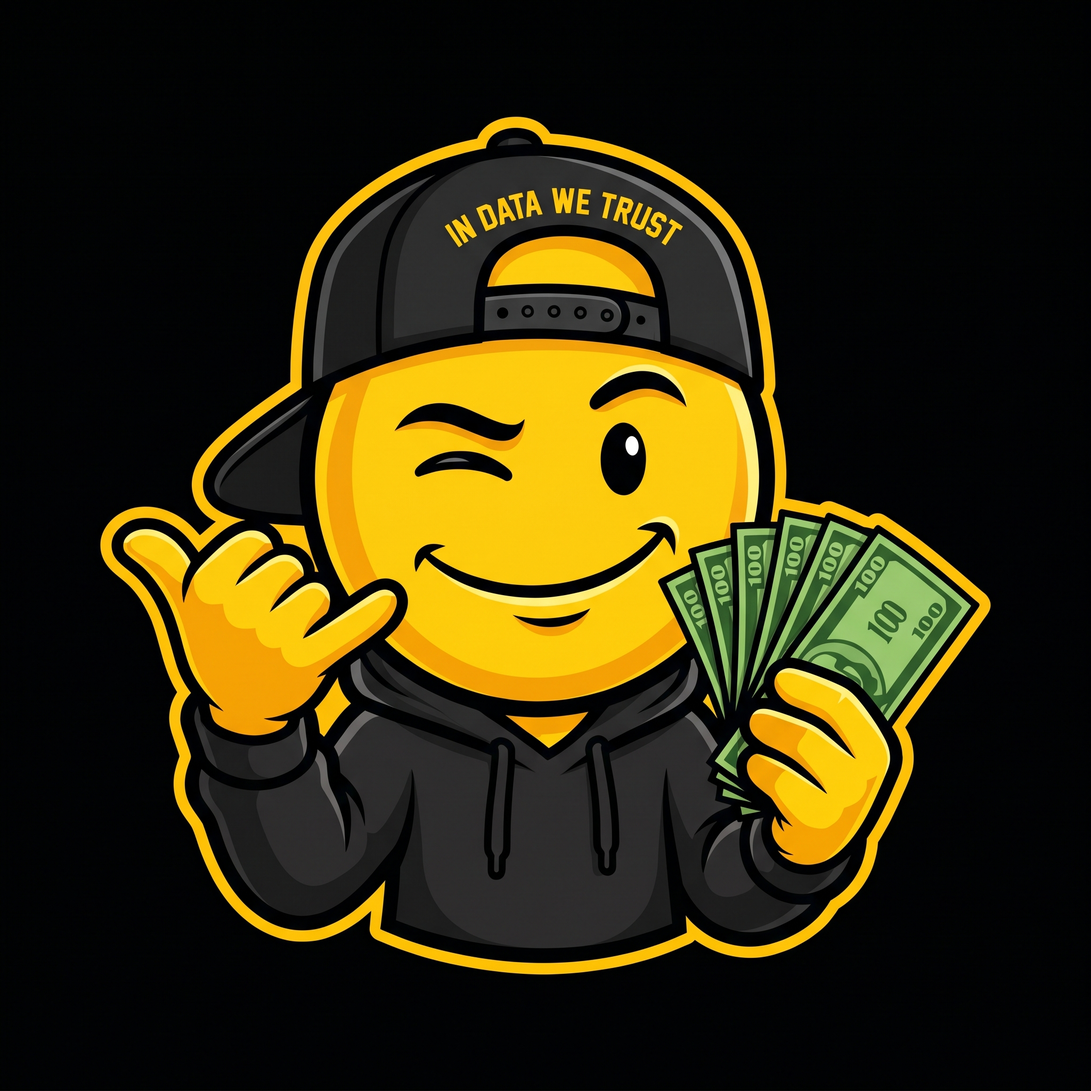
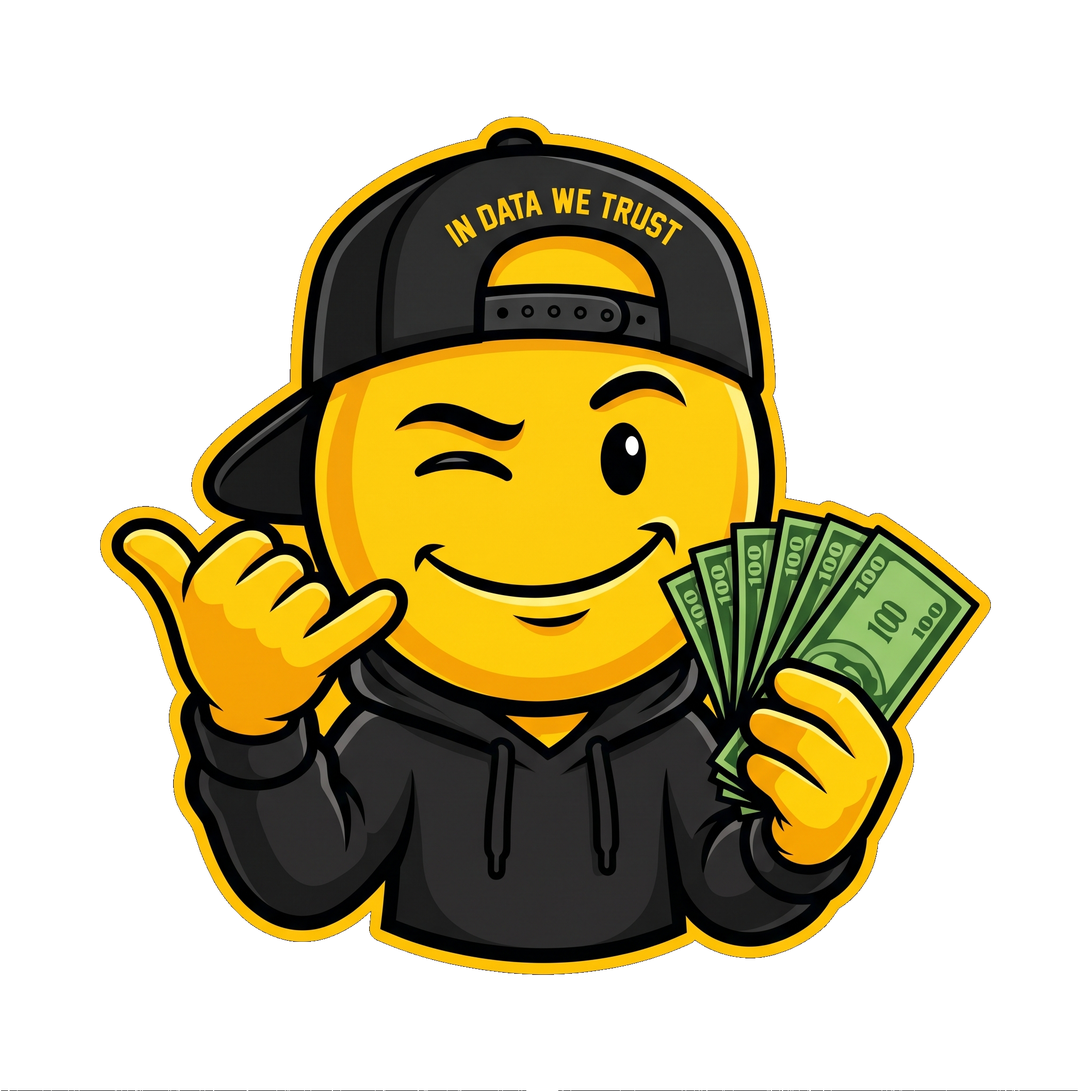
Sticker the mascot, unify the hero font, kill homepage stat repetition
What changed:
- The mascot finally looks like a sticker. The PNG had a baked-in black
  background that was rendering as a hard rectangle on top of the dark
  hero gradient; flood-filled the corner-connected black pixels to
  transparent so the sticker now floats with just its yellow outline.
  Internal blacks (hat, hoodie, line art) are preserved.
- Hero headline reads with one voice. Dropped BrushText (Permanent
  Marker / Bowlby) for "BRO" — mixing it with the italic Anton "TRUST"
  in the same brand phrase looked like three competing fonts. Now all
  three words are Anton italic; "TRUST ME" white, "BRO." gold.
- Stopped showing WIN RATE / SCORE / STREAK three times above the fold.
  The marquee was mirroring the hero stat panel which was mirroring
  the StatStrip band right below it. Removed StatStrip from the
  homepage (the /score page still has the long-form ledger), and
  rebuilt the marquee as an activity feed (latest BotD + outcome,
  tonight's pending count, tracking-since date, +1.0/-0.5 ledger
  reminder, "real bookmaker odds" line, sport scope).
- Mascot column also dialled down: max width 22→28rem instead of full
  column, conic backdrop opacity halved, drop-shadow softened, side
  glow shrunk. The sticker stops fighting the headline for attention.

What this means visually:
- Hero now reads top-down as one composition: eyebrow → headline →
  one-line subtitle → CTAs → stat panel → mascot floats alongside.
[…]

diff --git a/src/components/site/Hero.tsx b/src/components/site/Hero.tsx
@@ -9,7 +9,6 @@ import {
   type MotionValue,
 } from "motion/react";
 import { BarChart3, Clock, Flame, TrendingUp, Trophy } from "lucide-react";
-import { BrushText } from "@/components/site/BrushText";
 import { CountUp } from "@/components/site/CountUp";
 import { GoldButton } from "@/components/site/GoldButton";
 import { MagneticLink } from "@/components/site/MagneticLink";
@@ -77,14 +76,10 @@ function buildStatTiles(stats: EngineStats): StatTile[] {
         : "";
   const streakNote =
     stats.current_streak.kind === "win"
-      ? stats.current_streak.length === 1
-        ? "win in a row"
-        : "wins in a row"
+      ? "in a row"
       : stats.current_streak.kind === "loss"
-        ? stats.current_streak.length === 1
-          ? "loss in a row"
-          : "losses in a row"
-        : "Awaiting first result";
+        ? "in a row"
+        : "awaiting result";
   tiles.push({
     Icon: Flame,
     label: "Streak",
@@ -108,7 +103,7 @@ function buildStatTiles(stats: EngineStats): StatTile[] {
       Icon: Clock,
       label: "Pending",
       value: stats.pending,
-      note: stats.pending === 1 ? "pick to settle" : "picks to settle",
+      note: "to settle tonight",
       tone: "neutral",
     });
   } else {
@@ -164,45 +159,38 @@ export function Hero({ stats }: { stats: EngineStats }) {
             Data. Analysis. Winners.
           </motion.p>
 
+          {/* One typeface, one rhythm. Anton italic across all three words.
+              Colour does the brand work: "TRUST ME" white, "BRO" warm-gold.
+              Dropped BrushText — mixing Anton + Permanent Marker mid-word
+              read as three fonts colliding, which the renovation review
+              flagged. */}
           <motion.h1
-            className="font-display italic uppercase leading-[0.85] tracking-[-0.02em] text-[clamp(3.2rem,9.2vw,7rem)]"
+            className="font-display italic uppercase leading-[0.88] tracking-[-0.025em] text-[clamp(3.4rem,9vw,6.8rem)]"
           >
             <span
-              className="hero-word block"
+              className="hero-word block text-foreground"
               style={{ animationDelay: "0ms" }}
             >
-              TRUST
+              TRUST ME
             </span>
             <span
               className="hero-word block"
-              style={{ animationDelay: "110ms" }}
+              style={{
+                animationDelay: "110ms",
+                background:
+                  "linear-gradient(180deg, #FFE066 0%, #FFB800 100%)",
+                WebkitBackgroundClip: "text",
+                backgroundClip: "text",
+                WebkitTextFillColor: "transparent",
+              }}
             >
-              <span
-                className="mr-2"
-                style={{
-                  // Brighten the bottom stop so thin letter strokes (e.g. the
-                  // middle bar of the "E") stay visible against the dark
-                  // background — the old stop dropped to #E89A00 which read
-                  // as "t" instead of "E" at hero scale.
-                  background:
-                    "linear-gradient(180deg, #FFE066 0%, #FFB800 100%)",
-                  WebkitBackgroundClip: "text",
-                  backgroundClip: "text",
-                  WebkitTextFillColor: "transparent",
-                }}
-              >
-                ME
-              </span>
-              <BrushText className="text-[1.05em]">BRO</BrushText>
+              BRO.
             </span>
           </motion.h1>
 
-          <p className="max-w-lg text-base text-foreground/75">
-            <span className="font-semibold text-foreground">
-              We don&apos;t guess. We analyze.
-            </span>{" "}
-            Real bookmaker odds, real expected value, real ledger — every pick
-            graded the morning after.
+          <p className="max-w-md text-base text-foreground/70">
+            Real bookmaker odds. Real expected value. Every pick graded the
+            morning after, win or lose.
           </p>
 
           <div className="flex items-center gap-3 flex-wrap">
@@ -258,13 +246,13 @@ function BackgroundFx({ blurOpacity }: { blurOpacity: MotionValue<number> }) {
       <motion.div
         aria-hidden
         style={{ opacity: blurOpacity }}
-        className="absolute top-10 right-[8%] size-[440px] -z-10"
+        className="absolute top-16 right-[10%] size-[320px] -z-10"
       >
         <div
           className="size-full blur-3xl"
           style={{
             background:
-              "radial-gradient(45% 45% at 50% 50%, rgba(255,184,0,0.38), transparent 70%)",
+              "radial-gradient(45% 45% at 50% 50%, rgba(255,184,0,0.22), transparent 70%)",
           }}
         />
       </motion.div>
@@ -293,24 +281,26 @@ function MascotStage({
       initial={{ opacity: 0, scale: 0.9, rotate: -3 }}
       animate={{ opacity: 1, scale: 1, rotate: 0 }}
       transition={{ duration: 0.9, ease: [0.22, 1, 0.36, 1] }}
-      className="relative mx-auto max-w-md lg:max-w-none aspect-square"
+      className="relative mx-auto w-full max-w-[22rem] sm:max-w-md lg:max-w-[28rem] aspect-square"
     >
+      {/* Subtle conic backdrop — same gold tone but lower opacity so the
+          sticker (now transparent-background) carries the visual weight. */}
       <motion.div
         aria-hidden
         animate={{ rotate: 360 }}
-        transition={{ duration: 60, ease: "linear", repeat: Infinity }}
-        className="absolute inset-[8%] rounded-full"
+        transition={{ duration: 90, ease: "linear", repeat: Infinity }}
+        className="absolute inset-[10%] rounded-full"
         style={{
           background:
-            "conic-gradient(from 0deg, transparent 0%, rgba(255,184,0,0.18) 25%, transparent 50%, rgba(255,184,0,0.10) 75%, transparent 100%)",
+            "conic-gradient(from 0deg, transparent 0%, rgba(255,184,0,0.10) 25%, transparent 50%, rgba(255,184,0,0.06) 75%, transparent 100%)",
         }}
       />
       <div
         aria-hidden
-        className="absolute inset-[12%] rounded-full blur-3xl"
+        className="absolute inset-[18%] rounded-full blur-3xl"
         style={{
           background:
-            "radial-gradient(40% 40% at 50% 50%, rgba(255,184,0,0.55), transparent 70%)",
+            "radial-gradient(38% 38% at 50% 50%, rgba(255,184,0,0.32), transparent 72%)",
         }}
       />
       <div className="mascot-bob absolute inset-0 grid place-items-center">
@@ -321,7 +311,7 @@ function MascotStage({
           height={620}
           priority
           unoptimized
-          className="select-none drop-shadow-[0_30px_80px_rgba(255,184,0,0.55)]"
+          className="select-none drop-shadow-[0_24px_50px_rgba(255,184,0,0.35)]"
         />
       </div>
       <Coin angle={20} distance="46%" delay={0} />

diff --git a/src/components/site/MarqueeTicker.tsx b/src/components/site/MarqueeTicker.tsx
@@ -1,68 +1,84 @@
 "use client";
 
-import { Flame, Sparkles, TrendingUp, Trophy, Zap } from "lucide-react";
+import { Check, Clock, Flame, Sparkles, Trophy, X } from "lucide-react";
 import type { EngineStats } from "@/lib/scoring/stats";
 
 type Item = { Icon: typeof Trophy; text: string };
 
+const MARKET_LABEL: Record<string, string> = {
+  points: "PTS",
+  rebounds: "REB",
+  assists: "AST",
+  threes_made: "3PM",
+  minutes: "MIN",
+  pra: "PRA",
+  steals: "STL",
+  blocks: "BLK",
+};
+
+// Activity feed, not a stat mirror. The hero stat panel already shows
+// WIN RATE / SCORE / STREAK / PENDING as static tiles — repeating them in
+// a scrolling marquee was the "same number in three places" problem the
+// design review flagged. These items lean on *events* (latest BotD,
+// tracking start, slate cadence) so the marquee complements rather than
+// duplicates the hero.
 function buildItems(stats: EngineStats): Item[] {
   const items: Item[] = [];
-  const hasSettled = stats.total_settled > 0;
-  const hasPicks = stats.total_picks > 0;
 
-  if (hasSettled && stats.win_rate !== null) {
+  // Latest BotD with outcome — the most editorially interesting line.
+  const latest = stats.recent_botds[0];
+  if (latest) {
+    const market = MARKET_LABEL[latest.market] ?? latest.market.toUpperCase();
+    const pick = latest.pick.toUpperCase();
+    const name = `${latest.player_first_name} ${latest.player_last_name}`.trim().toUpperCase();
+    const statusIcon =
+      latest.status === "won"
+        ? Check
+        : latest.status === "lost"
+          ? X
+          : Clock;
+    const statusTag =
+      latest.status === "won"
+        ? "WON"
+        : latest.status === "lost"
+          ? "LOST"
+          : latest.status === "void"
+            ? "VOID"
+            : "TONIGHT";
     items.push({
-      Icon: Trophy,
-      text: `WIN RATE ${(stats.win_rate * 100).toFixed(0)}% (${stats.wins}-${stats.losses})`,
-    });
-  } else {
-    items.push({ Icon: Trophy, text: "WIN RATE — TRACKING JUST STARTED" });
-  }
-
-  if (hasSettled) {
-    const sign = stats.score >= 0 ? "+" : "";
-    items.push({
-      Icon: TrendingUp,
-      text: `ENGINE SCORE ${sign}${stats.score.toFixed(1)} UNITS · +1.0/-0.5 LEDGER`,
-    });
-  }
-
-  if (stats.current_streak.length > 0) {
-    const label = stats.current_streak.kind === "win" ? "WIN" : "LOSS";
-    items.push({
-      Icon: Flame,
-      text: `${stats.current_streak.length} ${label} STREAK ACTIVE`,
-    });
-  }
-
-  if (hasSettled && stats.net_units_7d !== 0) {
-    const sign = stats.net_units_7d > 0 ? "+" : "";
-    items.push({
-      Icon: Zap,
-      text: `${sign}${stats.net_units_7d.toFixed(1)} UNITS LAST 7 DAYS`,
+      Icon: statusIcon,
+      text: `BET OF THE DAY · ${name} ${pick} ${latest.line} ${market} · ${statusTag}`,
     });
   }
 
-  if (hasPicks) {
+  if (stats.pending > 0) {
     items.push({
       Icon: Sparkles,
-      text: `${stats.total_picks} TOTAL PICKS · ${stats.pending} PENDING`,
-    });
-  } else {
-    items.push({
-      Icon: Sparkles,
-      text: "DATA-DRIVEN PICKS DAILY · REAL ODDS, REAL EV",
+      text: `${stats.pending} PICK${stats.pending === 1 ? "" : "S"} BEING TRACKED TONIGHT`,
     });
   }
 
   if (stats.first_pick_date) {
     items.push({
       Icon: Flame,
-      text: `TRACKING SINCE ${stats.first_pick_date}`,
+      text: `TRACKING SINCE ${stats.first_pick_date} · NO RETRO EDITS`,
     });
   }
 
-  items.push({ Icon: Trophy, text: "NBA · MORE SPORTS COMING" });
+  items.push({
+    Icon: Trophy,
+    text: "+1.0 PER WIN · −0.5 PER LOSS · SETTLED DAILY @ 9 UTC",
+  });
+
+  items.push({
+    Icon: Sparkles,
+    text: "REAL BOOKMAKER ODDS · REAL EXPECTED VALUE",
+  });
+
+  items.push({
+    Icon: Trophy,
+    text: "NBA TODAY · MORE SPORTS COMING",
+  });
 
   return items;
 }

diff --git a/src/app/page.tsx b/src/app/page.tsx
@@ -23,7 +23,6 @@ import type { PredictionRow, TeamLite } from "@/components/types";
 import { BrushText } from "@/components/site/BrushText";
 import { Hero } from "@/components/site/Hero";
 import { PickCard } from "@/components/site/PickCard";
-import { StatStrip } from "@/components/site/StatStrip";
 import { PillarRow } from "@/components/site/PillarRow";
 import { WinnersClub } from "@/components/site/WinnersClub";
 import { PricingTiers } from "@/components/site/PricingTiers";
@@ -159,7 +158,6 @@ export default async function HomePage({ searchParams }: PageProps) {
   return (
     <div className="fade-up">
       <Hero stats={engineStats} />
-      <StatStrip stats={engineStats} />
 
       <section
         id="picks"
